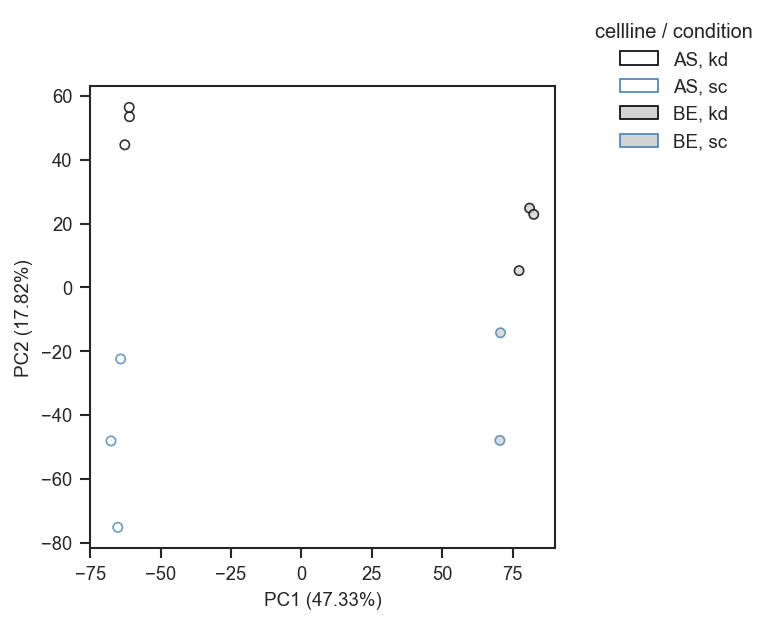
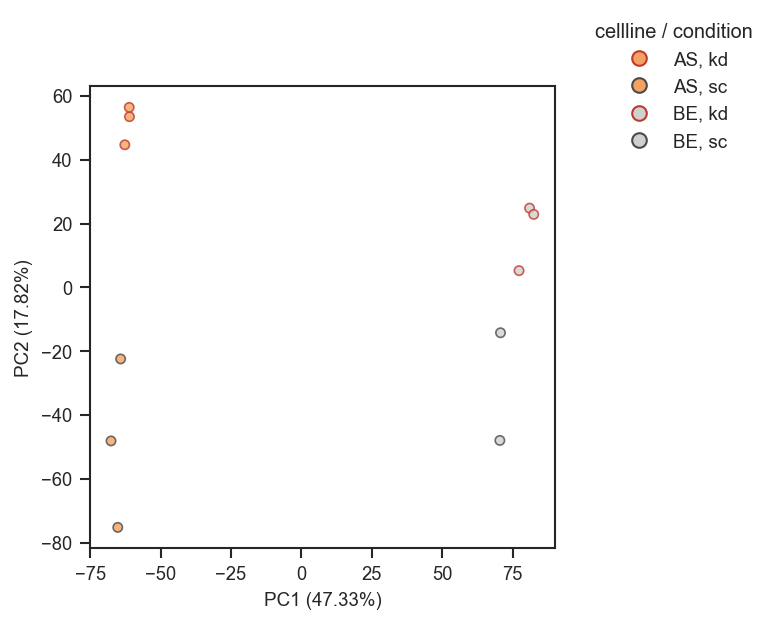
fix(plotting): use hollow circle edge legends and grey shape handles in PCA/UMAP

diff --git a/src/scpviz/plotting/dimreduc.py b/src/scpviz/plotting/dimreduc.py
@@ -331,10 +331,10 @@ def plot_pca(ax: "plt.Axes", pdata: pAnnData, color=None, edge_color=None, marke
             ```python
             mapping_keys = ["cellline", "condition"]
             mapping = {
-                ("AS", "kd"): {"color": "white", "edge_color": "black"},
-                ("AS", "sc"): {"color": "white", "edge_color": "steelblue"},
-                ("BE", "kd"): {"color": "lightgrey", "edge_color": "black"},
-                ("BE", "sc"): {"color": "lightgrey", "edge_color": "steelblue"},
+                ("AS", "kd"): {"color": "#F4A261", "edge_color": "#C0392B"},
+                ("AS", "sc"): {"color": "#F4A261", "edge_color": "#4A4A4A"},
+                ("BE", "kd"): {"color": "#D0D0D0", "edge_color": "#C0392B"},
+                ("BE", "sc"): {"color": "#D0D0D0", "edge_color": "#4A4A4A"},
             }
             plot_pca(ax, pdata_norm, mapping_keys=mapping_keys, mapping=mapping, force=True)
             ```
@@ -353,6 +353,7 @@ def plot_pca(ax: "plt.Axes", pdata: pAnnData, color=None, edge_color=None, marke
                 ax, pdata_sc, color="Gapdh", cmap="plasma",
                 mapping_keys=mapping_keys, mapping=mapping, force=True,
             )
+            scplt.shift_legend(ax, anchor_pos=(1.15, 1.0))
             ```
 
         ![Plot PCA mapping abundance (single-cell)](../../assets/plots/plot_pca_mapping_abundance_sc.png)
@@ -701,9 +702,9 @@ def resolve_marker_shapes(
         mlines.Line2D(
             [], [], linestyle="none",
             marker=shape_map[c],
-            color="black",  # neutral legend handle
-            markerfacecolor="black",
-            markeredgecolor="black",
+            color="grey",  # matches default scatter face when color= is unset
+            markerfacecolor="grey",
+            markeredgecolor="grey",
             markersize=7,
             label=str(c),
         )
@@ -711,6 +712,35 @@ def resolve_marker_shapes(
     ]
 
     return markers, shape_legend, shape_map
+
+
+def _hollow_edge_legend_handles(legend_elements: list[Any] | None) -> list[Any] | None:
+    """Convert filled categorical color legend handles to hollow (edge-only) markers."""
+    if not legend_elements:
+        return legend_elements
+    out: list[Any] = []
+    for h in legend_elements:
+        label = h.get_label()
+        if isinstance(h, mpatches.Patch):
+            ec = h.get_facecolor()
+        elif isinstance(h, mlines.Line2D):
+            ec = h.get_markeredgecolor() or h.get_color()
+        else:
+            out.append(h)
+            continue
+        out.append(
+            mlines.Line2D(
+                [], [],
+                linestyle="none",
+                marker="o",
+                markerfacecolor="none",
+                markeredgecolor=ec,
+                markersize=7,
+                label=label,
+            )
+        )
+    return out
+
 
 def _resolve_embedding_style_mapping(
     adata: ad.AnnData,
@@ -959,14 +989,15 @@ def _resolve_embedding_style_mapping(
             uniq.setdefault((ek, ec), None)
         edge_legend = [
             mlines.Line2D(
-                [], [], linestyle="none", marker="o", color=ec, markerfacecolor="white",
-                markeredgecolor=ec, markersize=7, label=ek,
+                [], [], linestyle="none", marker="o",
+                markerfacecolor="none", markeredgecolor=ec, markersize=7, label=ek,
             )
             for (ek, ec) in sorted(uniq.keys(), key=lambda t: t[0])
         ]
 
     # One legend for mapping when face colors are literal: same keys as edge styling.
-    combined_mapping_legend: list[mpatches.Patch] | None = None
+    # Use circles (matching scatter points) rather than rectangular patches.
+    combined_mapping_legend: list[mlines.Line2D] | None = None
     if not global_abundance and face_legend is not None:
         key_to_i: dict[tuple, int] = {}
         for i in range(n_obs):
@@ -981,15 +1012,18 @@ def _resolve_embedding_style_mapping(
             lab = ", ".join(str(x) for x in key)
             if isinstance(ec, str) and ec.lower() == "none":
                 combined_mapping_legend.append(
-                    mpatches.Patch(facecolor=fc, edgecolor="none", linewidth=0, label=lab)
+                    mlines.Line2D(
+                        [], [], linestyle="none", marker="o",
+                        markerfacecolor=fc, markeredgecolor=fc, markersize=7, label=lab,
+                    )
                 )
             else:
                 combined_mapping_legend.append(
-                    mpatches.Patch(
-                        facecolor=fc,
-                        edgecolor=ec,
-                        linewidth=edge_lw,
-                        label=lab,
+                    mlines.Line2D(
+                        [], [], linestyle="none", marker="o",
+                        markerfacecolor=fc, markeredgecolor=ec,
+                        markeredgewidth=max(float(edge_lw), 1.0),
+                        markersize=7, label=lab,
                     )
                 )
         face_legend = None
@@ -1007,8 +1041,8 @@ def _resolve_embedding_style_mapping(
                 shape_map[lab] = styles_plot[i].get("marker", "o")
         shape_legend = [
             mlines.Line2D(
-                [], [], linestyle="none", marker=shape_map[c], color="black",
-                markerfacecolor="black", markeredgecolor="black", markersize=7,
+                [], [], linestyle="none", marker=shape_map[c], color="grey",
+                markerfacecolor="grey", markeredgecolor="grey", markersize=7,
                 label=", ".join(str(x) for x in c),
             )
             for c in sorted(shape_map.keys(), key=str)
@@ -1292,6 +1326,7 @@ def _plot_embedding_scatter(
                     "edge_color does not support continuous (abundance) coloring. "
                     "Use `color=` for abundance-based coloring instead."
                 )
+            edge_legend = _hollow_edge_legend_handles(edge_legend)
 
         markers_all, shape_legend, _ = resolve_marker_shapes(
             adata, marker_shape, shape_cmap=shape_cmap
@@ -1935,6 +1970,7 @@ def plot_umap(ax: "plt.Axes", pdata: pAnnData, color=None, edge_color=None, mark
                 umap_params={"min_dist": 0.3, "n_neighbors": 30, "random_state": 42},
                 force=True,
             )
+            scplt.shift_legend(ax, anchor_pos=(1.15, 1.0))
             ```
 
         ![Plot UMAP mapping abundance](../../assets/plots/plot_umap_mapping_abundance.png)

diff --git a/docs/generate_plot_figures.py b/docs/generate_plot_figures.py
@@ -137,20 +137,29 @@ def _region_literal_mapping(umap_kw: dict) -> tuple[list[str], dict]:
 
 
 def _bulk_literal_mapping(adata, mapping_keys: list[str]) -> dict:
-    """Literal face+edge styles for bulk ``cellline`` × ``condition|treatment`` combos."""
+    """Literal face+edge styles for bulk ``cellline`` × ``condition|treatment`` combos.
+
+    Face = cell line (AS orange / BE light grey); edge = condition (kd red / sc charcoal).
+    Charcoal (not light grey) for sc keeps BE+sc rings visible on grey fills.
+    """
     mapping: dict = {}
     combos = adata.obs[mapping_keys].drop_duplicates()
     for row in combos.itertuples(index=False, name=None):
         key = tuple(row)
         cell = str(row[0])
         g2 = str(row[1]) if len(row) > 1 else ""
-        face = "white" if cell == "AS" else "lightgrey" if cell == "BE" else "#f0f0f0"
-        if g2 == "kd":
-            edge = "black"
-        elif g2 == "sc":
-            edge = "steelblue"
+        if cell == "AS":
+            face = "#F4A261"
+        elif cell == "BE":
+            face = "#D0D0D0"
         else:
-            edge = "black"
+            face = "#f0f0f0"
+        if g2 == "kd":
+            edge = "#C0392B"
+        elif g2 == "sc":
+            edge = "#4A4A4A"
+        else:
+            edge = "#4A4A4A"
         mapping[key] = {"color": face, "edge_color": edge}
     return mapping
 
@@ -701,7 +710,7 @@ def main(*, skip_umap: bool = False) -> None:
             mapping=map_edges_sc,
             force=True,
         )
-        scplt.shift_legend(ax)
+        scplt.shift_legend(ax, anchor_pos=(1.15, 1.0))
         save_current_fig("plot_pca_mapping_abundance_sc")
 
         fig, ax = plt.subplots(figsize=umap_kw.get("figsize", (3, 3)))
@@ -764,7 +773,7 @@ def main(*, skip_umap: bool = False) -> None:
             s=umap_kw.get("s", 20),
             alpha=umap_kw.get("alpha", 0.8),
         )
-        scplt.shift_legend(ax)
+        scplt.shift_legend(ax, anchor_pos=(1.15, 1.0))
         save_current_fig("plot_umap_mapping_abundance")
     else:
         if skip_umap:

diff --git a/tests/test_plotting.py b/tests/test_plotting.py
@@ -1581,6 +1581,35 @@ def test_resolve_plot_colors_invalid(dummy_adata, bad_input):
     with pytest.raises(ValueError):
         scplt.resolve_plot_colors(dummy_adata, classes=bad_input, cmap="default")
 
+def test_hollow_edge_legend_handles():
+    from scpviz.plotting.dimreduc import _hollow_edge_legend_handles
+    import matplotlib.lines as mlines
+    import matplotlib.patches as mpatches
+
+    filled = [mpatches.Patch(color="steelblue", label="A"), mpatches.Patch(color="tomato", label="B")]
+    hollow = _hollow_edge_legend_handles(filled)
+    assert hollow is not None and len(hollow) == 2
+    for h in hollow:
+        assert isinstance(h, mlines.Line2D)
+        assert h.get_markerfacecolor() in ("none", "None")
+    assert hollow[0].get_label() == "A"
+    assert hollow[1].get_label() == "B"
+
+def test_plot_pca_edge_color_legend_is_hollow(pdata):
+    import matplotlib.lines as mlines
+
+    fig, ax = plt.subplots()
+    scplt.plot_pca(ax, pdata, color="treatment", edge_color="cellline", force=True)
+    edge_handles = []
+    for artist in ax.get_children():
+        if isinstance(artist, matplotlib.legend.Legend) and artist.get_title().get_text() == "Cellline":
+            edge_handles = artist.legend_handles
+            break
+    assert edge_handles, "expected a Cellline edge-color legend"
+    for h in edge_handles:
+        assert isinstance(h, mlines.Line2D)
+        assert h.get_markerfacecolor() in ("none", "None")
+
 def test_resolve_colorbar_norm_invalid_literal():
     from scpviz.plotting.dimreduc import _resolve_colorbar_norm
 

diff --git a/docs/tutorials/plotting.md b/docs/tutorials/plotting.md
@@ -533,10 +533,10 @@ For studies with crossed metadata columns, `plot_pca` (and `plot_umap`) accept a
     ```python
     mapping_keys = ["cellline", "condition"]
     mapping = {
-        ("AS", "kd"): {"color": "white", "edge_color": "black"},
-        ("AS", "sc"): {"color": "white", "edge_color": "steelblue"},
-        ("BE", "kd"): {"color": "lightgrey", "edge_color": "black"},
-        ("BE", "sc"): {"color": "lightgrey", "edge_color": "steelblue"},
+        ("AS", "kd"): {"color": "#F4A261", "edge_color": "#C0392B"},
+        ("AS", "sc"): {"color": "#F4A261", "edge_color": "#4A4A4A"},
+        ("BE", "kd"): {"color": "#D0D0D0", "edge_color": "#C0392B"},
+        ("BE", "sc"): {"color": "#D0D0D0", "edge_color": "#4A4A4A"},
     }
 
     fig, ax = plt.subplots(figsize=(4, 4))
@@ -561,7 +561,7 @@ For studies with crossed metadata columns, `plot_pca` (and `plot_umap`) accept a
         ax, pdata_sc, color="Gapdh", cmap="plasma",
         mapping_keys=mapping_keys, mapping=mapping, force=True,
     )
-    scplt.shift_legend(ax)
+    scplt.shift_legend(ax, anchor_pos=(1.15, 1.0))
     plt.show()
     ```
 
